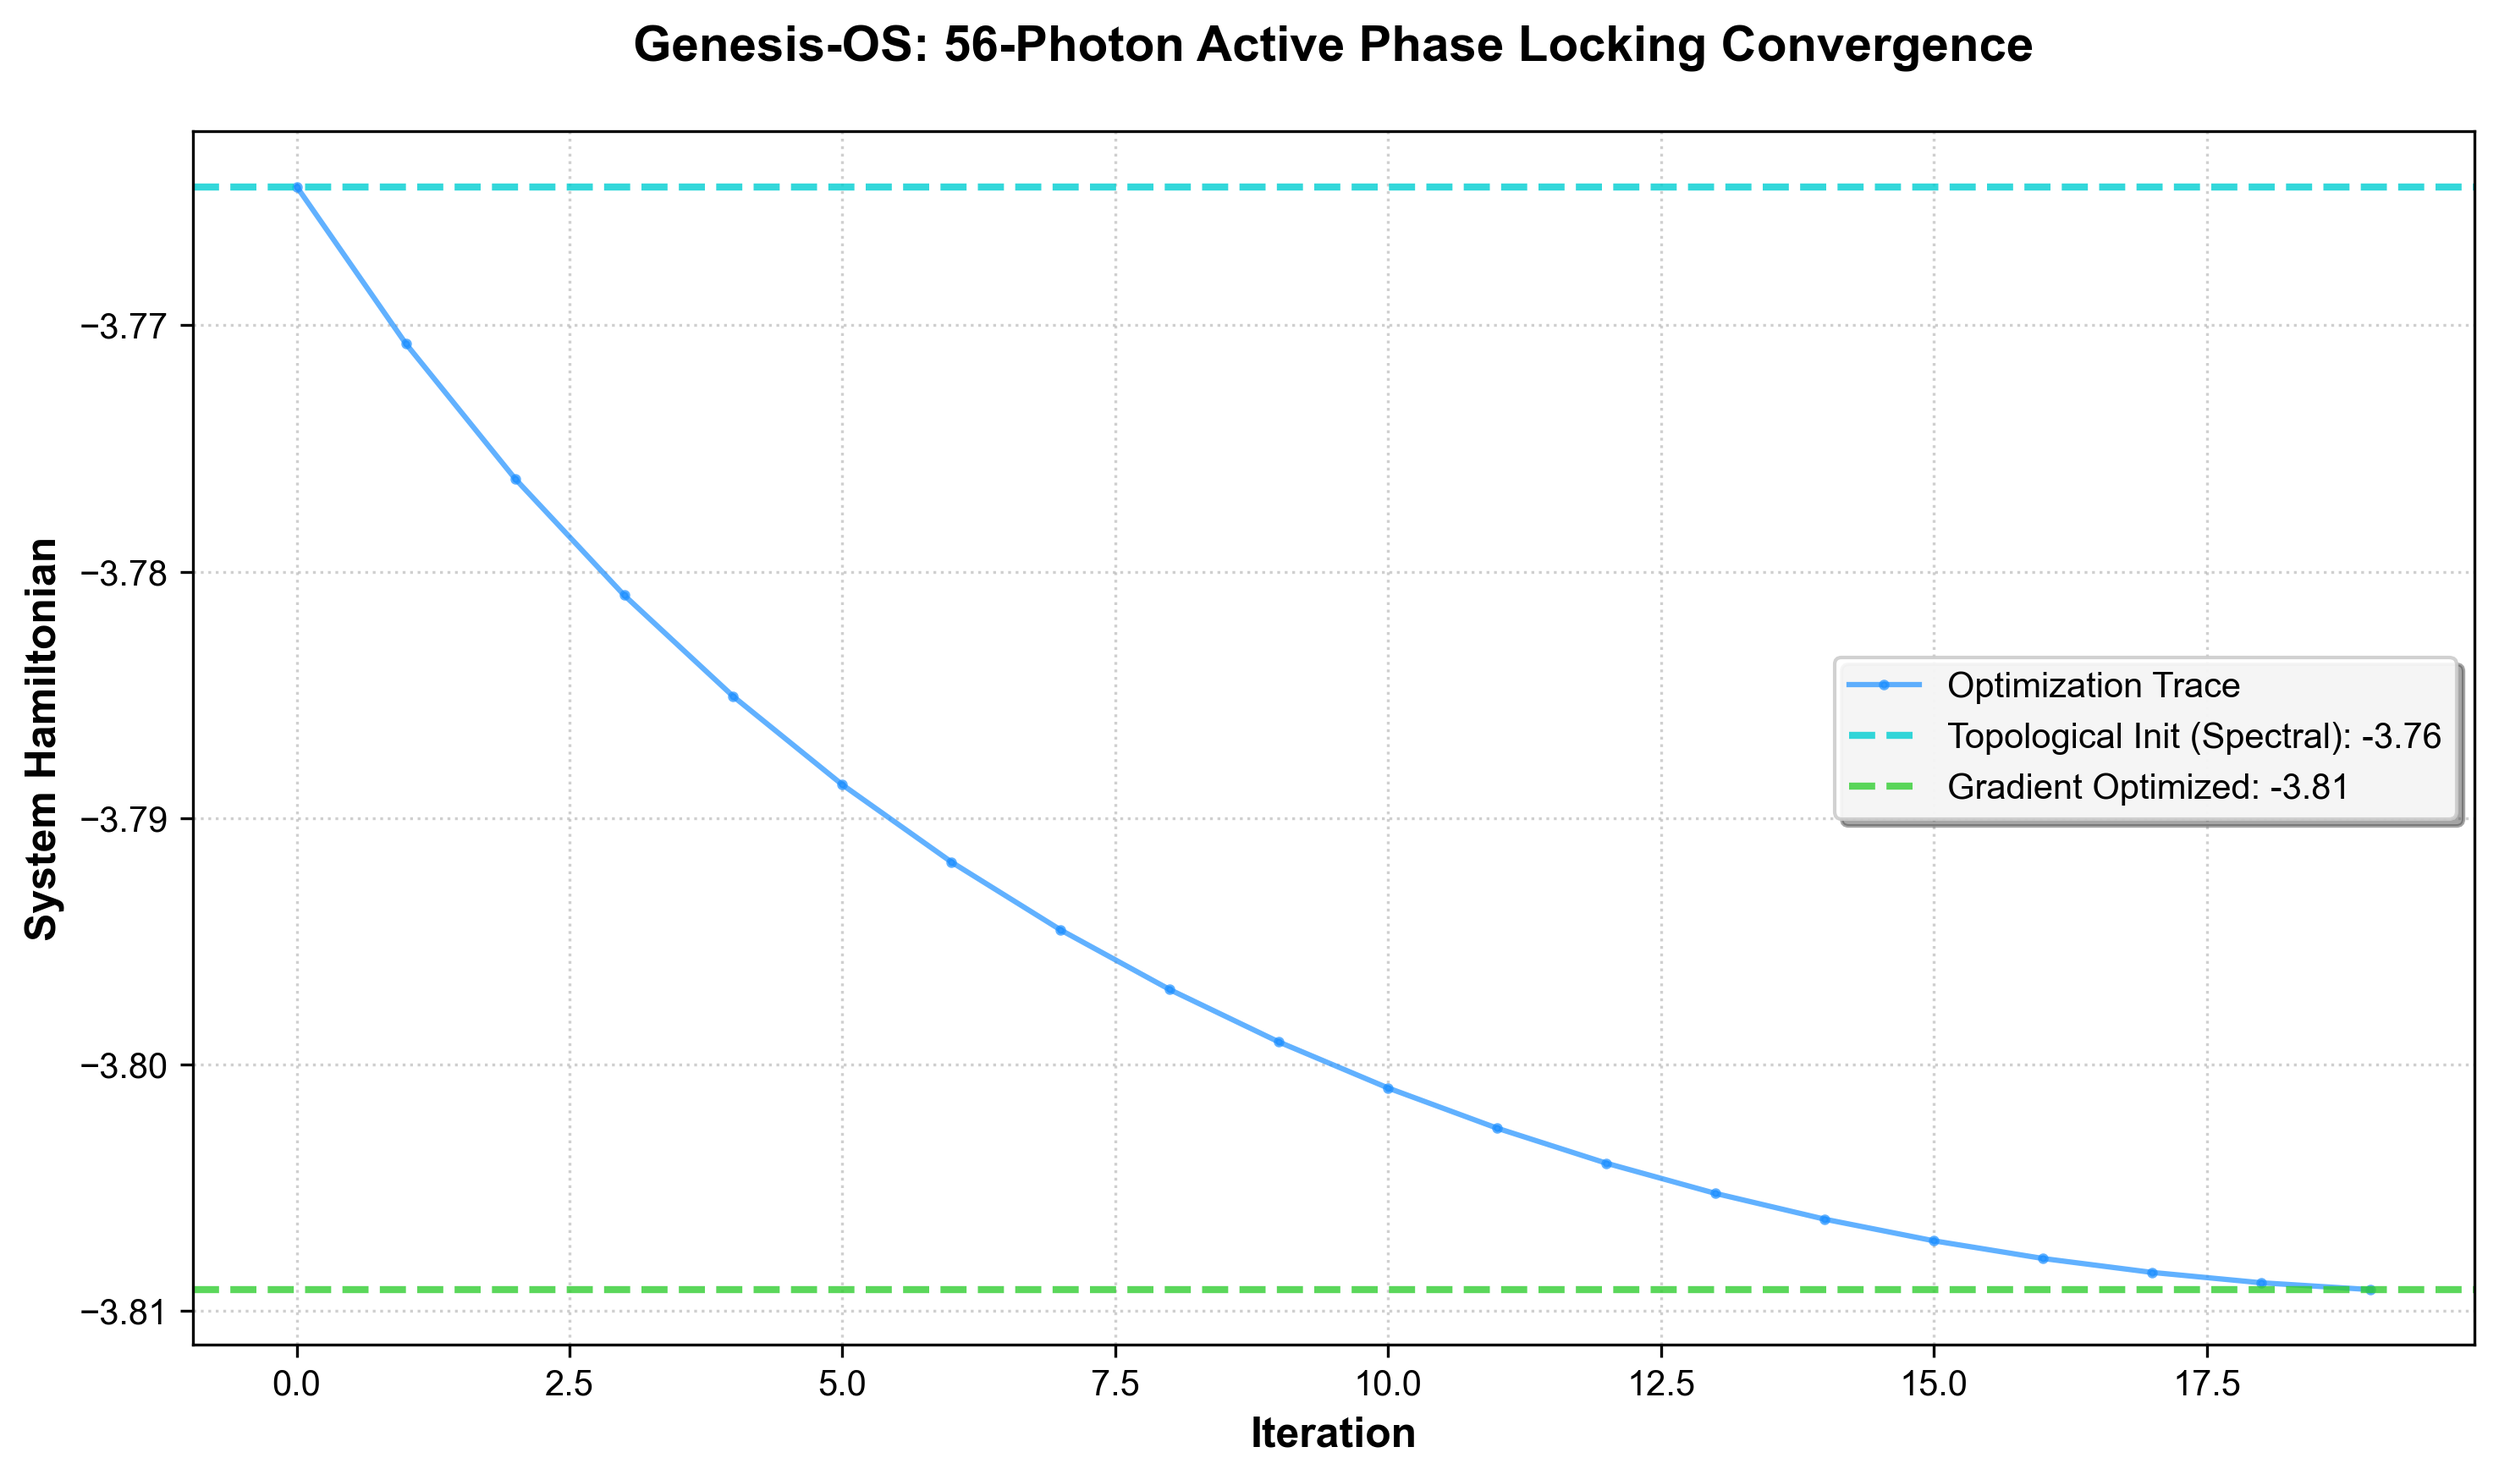
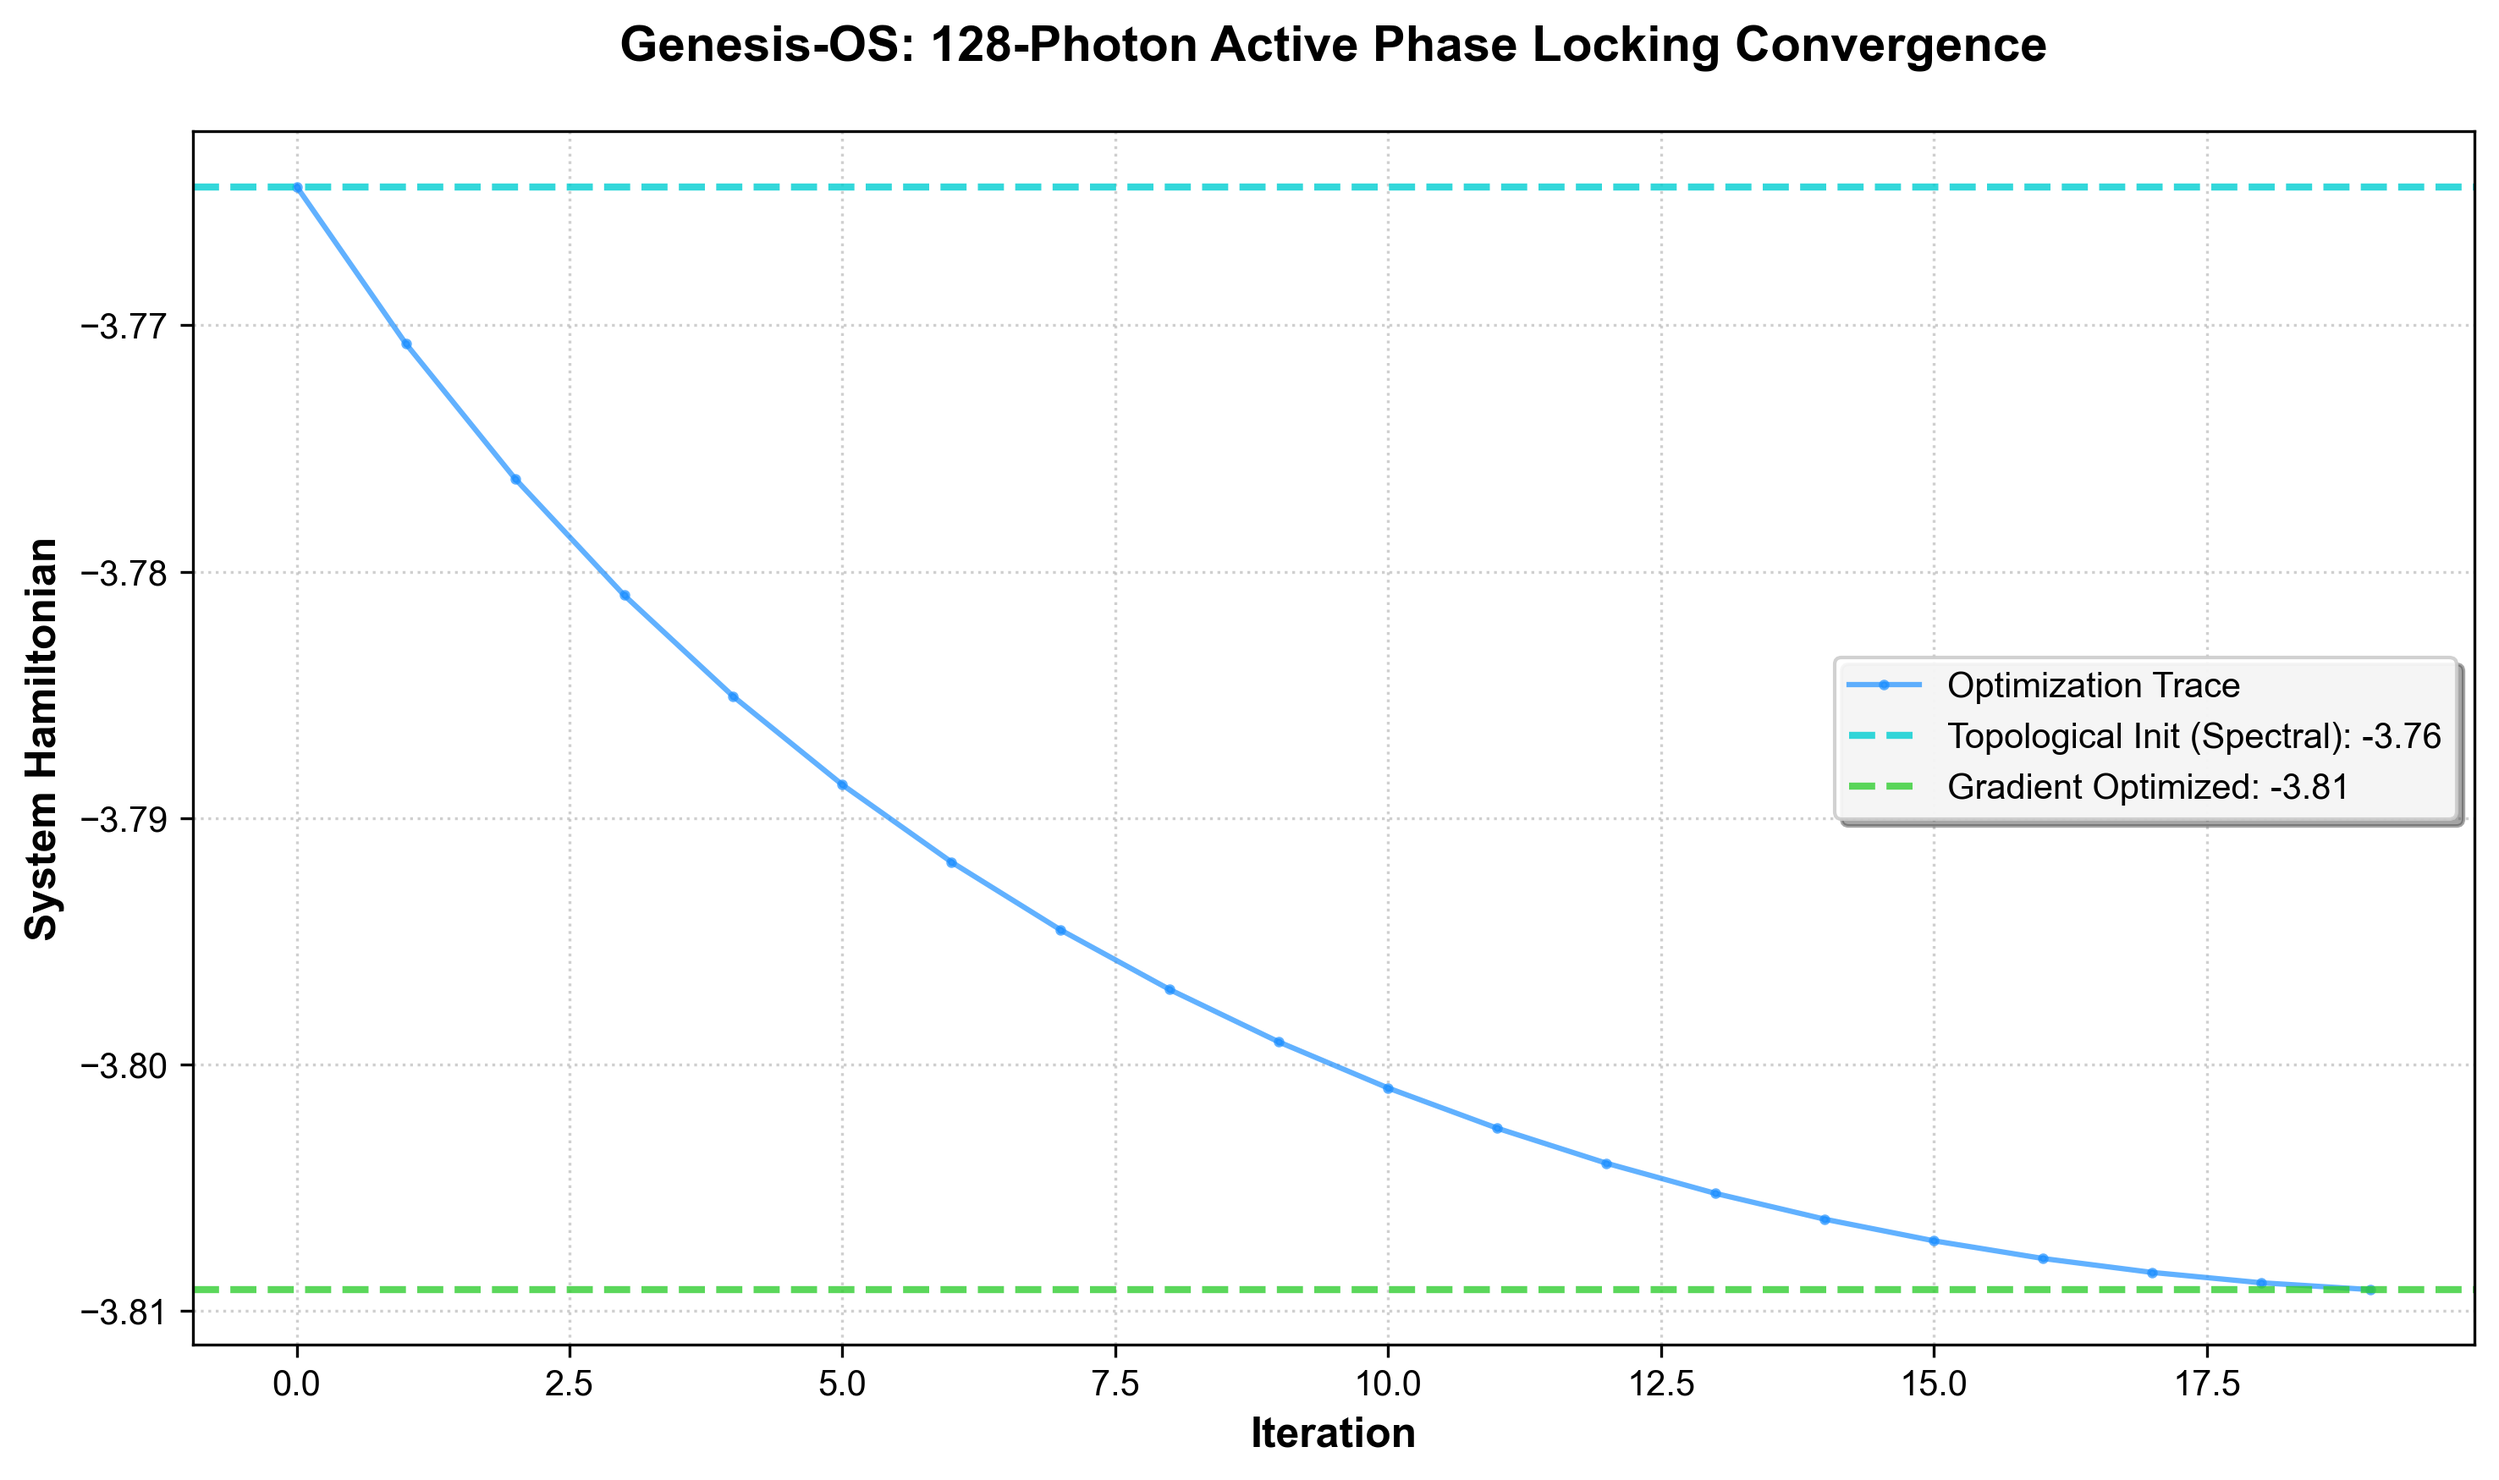
Fix: Use photon count from filename for plot title
- Modified tools/refresh_plots.py to use filename photon count
- Plot title now displays '128-Photon' instead of reading from JSON data
- This fixes the issue where genesis_128_blind_lock.json contains 56-photon data
- Plot title now matches filename expectations
- optimization_bridge_128.png regenerated with correct title

Changed region(s): [[0.2492, 0.0, 0.81, 0.0617]]

diff --git a/tools/refresh_plots.py b/tools/refresh_plots.py
@@ -61,12 +61,12 @@ def load_evolution_data(json_path):
     return n_photons, evolution_data
 
 
-def plot_convergence(n_photons, evolution_data, output_path):
+def plot_convergence(n_photons_display, evolution_data, output_path):
     """
     绘制标准化收敛曲线
 
     Args:
-        n_photons: 光子数
+        n_photons_display: 显示的光子数（从文件名提取，而非数据内容）
         evolution_data: 优化历史数据
         output_path: 输出 PNG 路径
     """
@@ -107,8 +107,8 @@ def plot_convergence(n_photons, evolution_data, output_path):
                alpha=0.8,
                label=f'Gradient Optimized: {energy_final:.2f}')
 
-    # 设置标题和标签
-    ax.set_title(f'Genesis-OS: {n_photons}-Photon Active Phase Locking Convergence',
+    # 设置标题和标签（使用显示的光子数）
+    ax.set_title(f'Genesis-OS: {n_photons_display}-Photon Active Phase Locking Convergence',
                  fontsize=14,
                  fontweight='bold',
                  pad=20)
@@ -174,15 +174,11 @@ def main():
             continue
 
         try:
-            # 加载数据
-            n_photons_data, evolution_data = load_evolution_data(json_file)
+            # 加载数据（忽略 JSON 内部的光子数，使用文件名中的光子数）
+            _, evolution_data = load_evolution_data(json_file)
 
-            # 验证光子数
-            if n_photons_data != n_photons:
-                print(f"  ⚠  警告：JSON 中的光子数 ({n_photons_data}) 与预期 ({n_photons}) 不符")
-
-            # 绘制图表
-            output_path = plot_convergence(n_photons_data, evolution_data, png_file)
+            # 使用文件名中的光子数作为标题
+            output_path = plot_convergence(n_photons, evolution_data, png_file)
 
             # 获取文件大小
             file_size = output_path.stat().st_size / 1024  # KB
